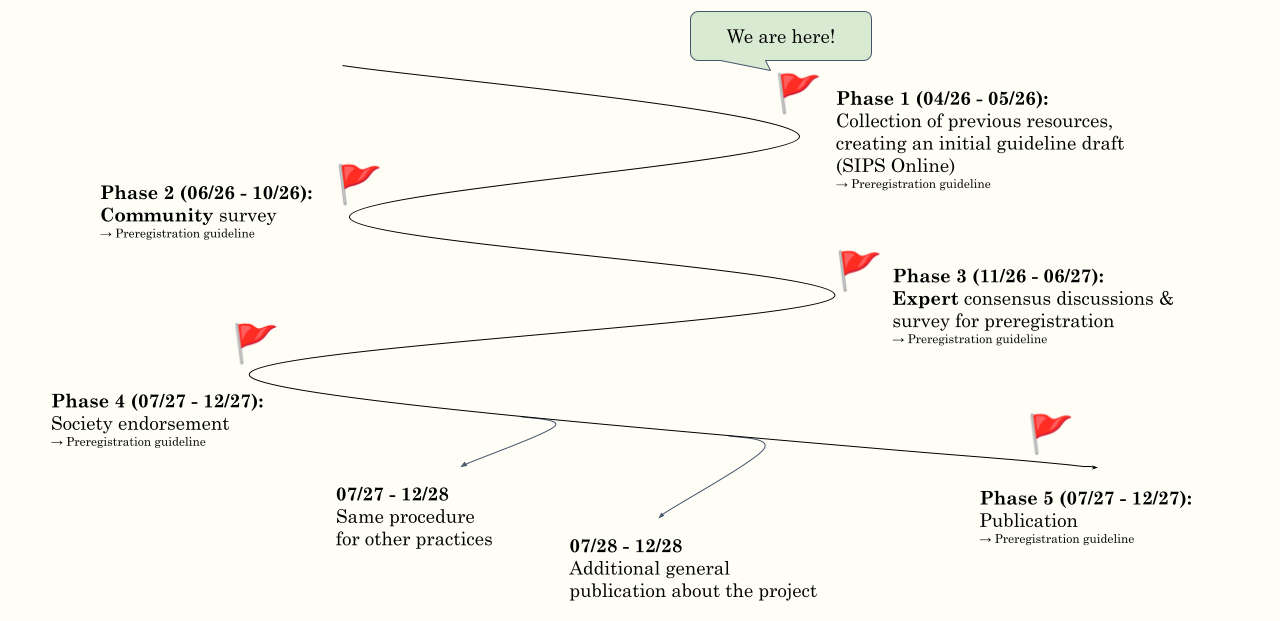
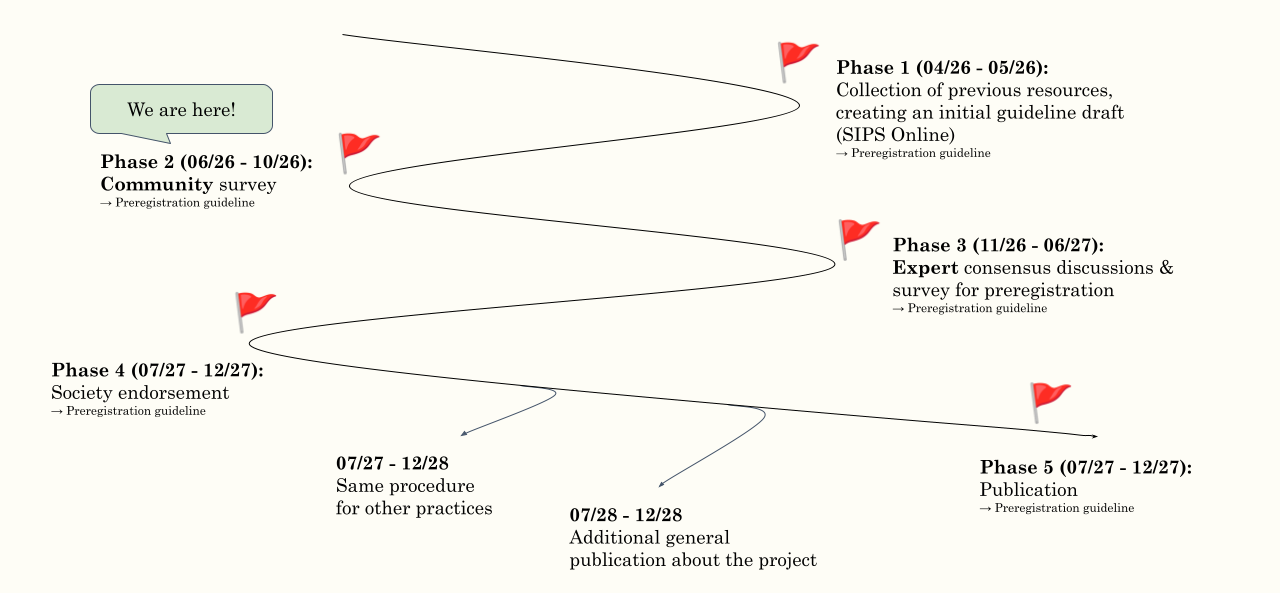
Add author-list envelopes, update roadmap, label task-force roles
- Mark author sections A6/A7 (Supervisors, Lead) and B1/B3 (Lead,
  Supervisors) with an envelope icon
- Replace roadmap image with the current version (project now in Phase 2)
- Add Lead/Supervisor role badges to Lisa Spitzer, Katarina Blask,
  and Flavio Azevedo

diff --git a/index.html b/index.html
@@ -95,7 +95,7 @@
     <h2>Action Plan &amp; Timeline</h2>
 
     <figure class="figure roadmap">
-      <img src="pics/roadmap.png" alt="Roadmap visualising the five project phases from April 2026 through December 2028" class="zoomable" tabindex="0" role="button" aria-label="Click to enlarge roadmap">
+      <img src="pics/roadmap.png" alt="Roadmap visualising the five project phases from April 2026 through December 2028, with the project currently in Phase 2 (community survey)" class="zoomable" tabindex="0" role="button" aria-label="Click to enlarge roadmap">
     </figure>
 
     <p class="callout-link"><a href="#get-involved"><i class="fas fa-arrow-right"></i> <strong>How to get involved?</strong></a></p>
@@ -260,14 +260,14 @@
           <li>Section A3: Other invited stakeholders</li>
           <li>Section A4: Sub task force members &amp; core task force members who participated in these guidelines</li>
           <li>Section A5: Community contributors (group authorship)</li>
-          <li>Section A6: Supervisors</li>
-          <li>Section A7: Lead</li>
+          <li>Section A6: Supervisors <i class="fas fa-envelope" aria-label="corresponding author" title="corresponding author"></i></li>
+          <li>Section A7: Lead <i class="fas fa-envelope" aria-label="corresponding author" title="corresponding author"></i></li>
         </ul>
         <h4>General publication at the end of the project</h4>
         <ul>
-          <li>Section B1: Lead</li>
+          <li>Section B1: Lead <i class="fas fa-envelope" aria-label="corresponding author" title="corresponding author"></i></li>
           <li>Section B2: Core task force members</li>
-          <li>Section B3: Supervisors</li>
+          <li>Section B3: Supervisors <i class="fas fa-envelope" aria-label="corresponding author" title="corresponding author"></i></li>
         </ul>
       </div>
     </details>
@@ -280,6 +280,7 @@
       <article class="person">
         <img src="pics/ls.jpg" alt="Dr. Lisa Spitzer">
         <h4>Dr. Lisa Spitzer</h4>
+        <p class="person-role">Lead</p>
         <p>Leibniz Institute for Psychology (ZPID)</p>
         <p>Member of the SIPS Executive Committee</p>
         <p><a href="mailto:[email redacted]">[email redacted]</a></p>
@@ -288,6 +289,7 @@
       <article class="person">
         <img src="pics/kb.jpg" alt="Dr. Katarina Blask">
         <h4>Dr. Katarina Blask</h4>
+        <p class="person-role">Supervisor</p>
         <p>Leibniz Institute for Psychology (ZPID)</p>
         <p>Member of the Open Science Commission of the German Psychological Society</p>
         <p>Member of KonsortSWD</p>
@@ -296,6 +298,7 @@
       <article class="person">
         <img src="pics/fa.png" alt="Dr. Flavio Azevedo">
         <h4>Dr. Flavio Azevedo</h4>
+        <p class="person-role">Supervisor</p>
         <p>Utrecht University</p>
         <p>Director of the Framework for Open and Reproducible Research Training (FORRT)</p>
       </article>

diff --git a/styles.css b/styles.css
@@ -488,6 +488,19 @@ strong { color: var(--teal-dark); }
   margin-bottom: 0;
 }
 
+.person-role {
+  display: inline-block;
+  margin: 0 auto 0.6rem;
+  padding: 0.15rem 0.7rem;
+  border-radius: 999px;
+  background: var(--cream-deep);
+  color: var(--teal);
+  font-size: 0.75rem;
+  font-weight: 600;
+  letter-spacing: 0.02em;
+  text-transform: uppercase;
+}
+
 /* ---------- References ---------- */
 .references {
   font-size: 0.9375rem;